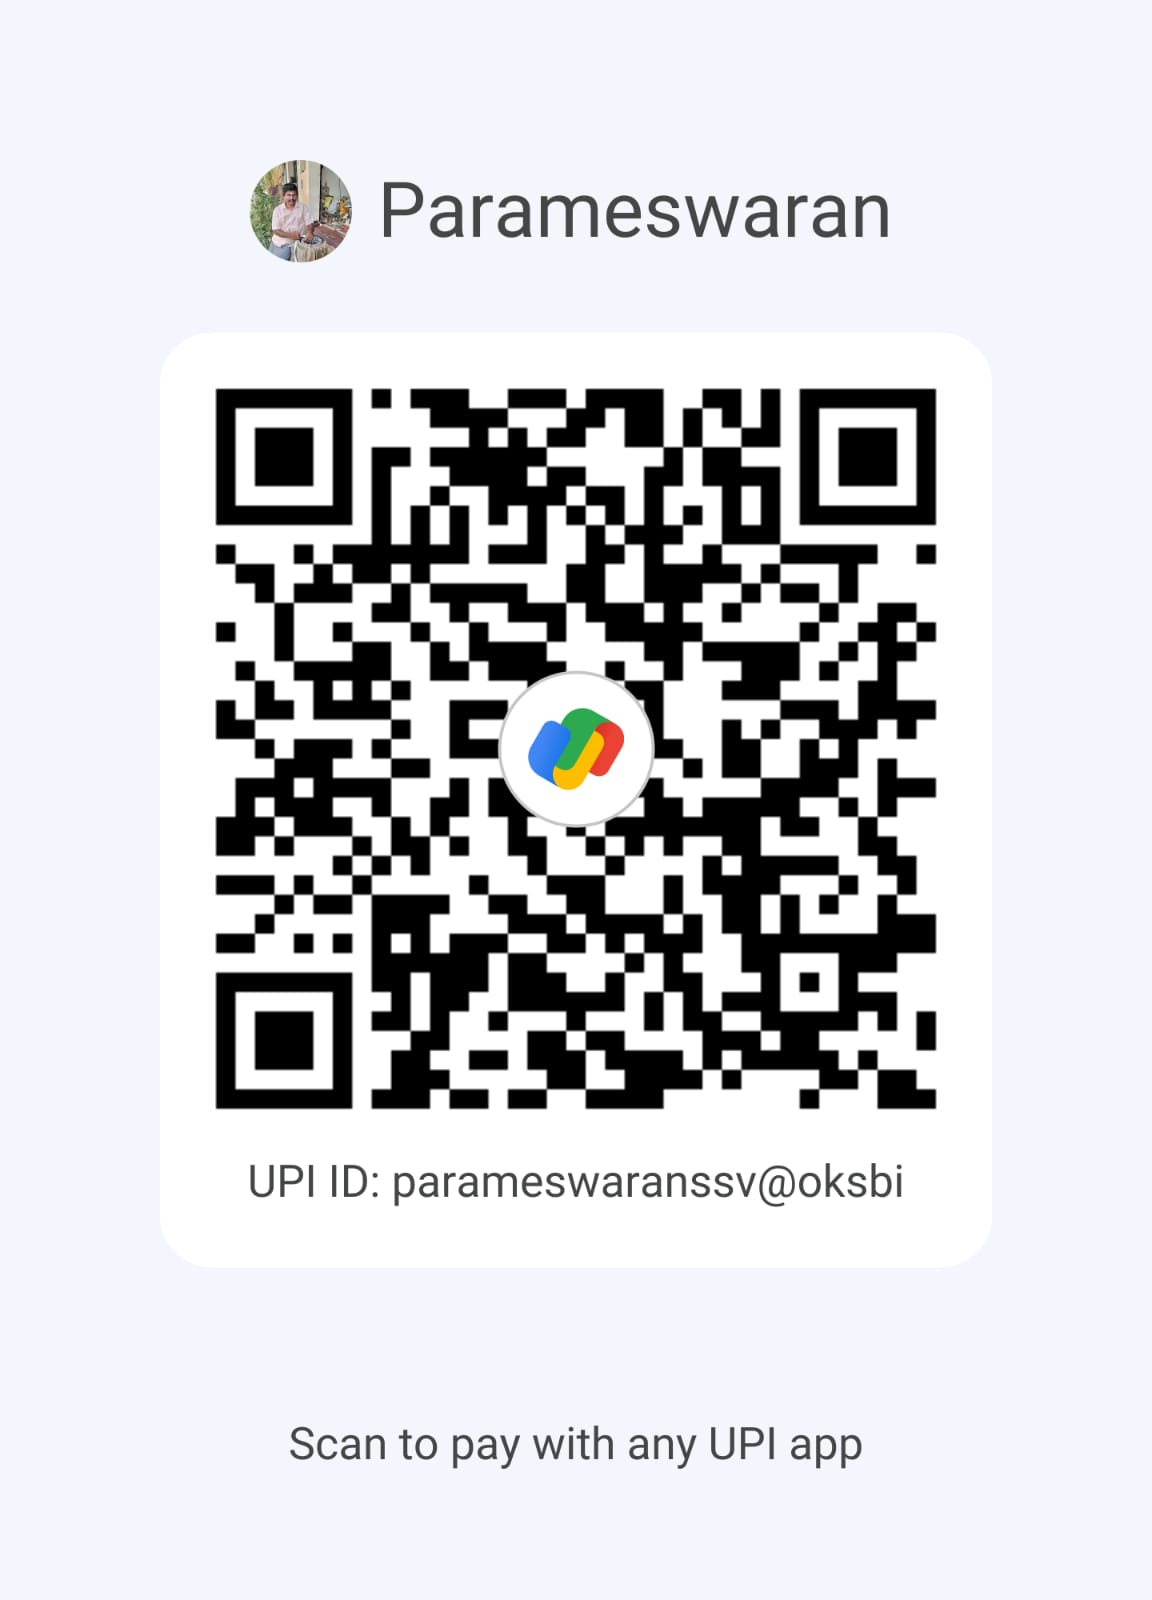
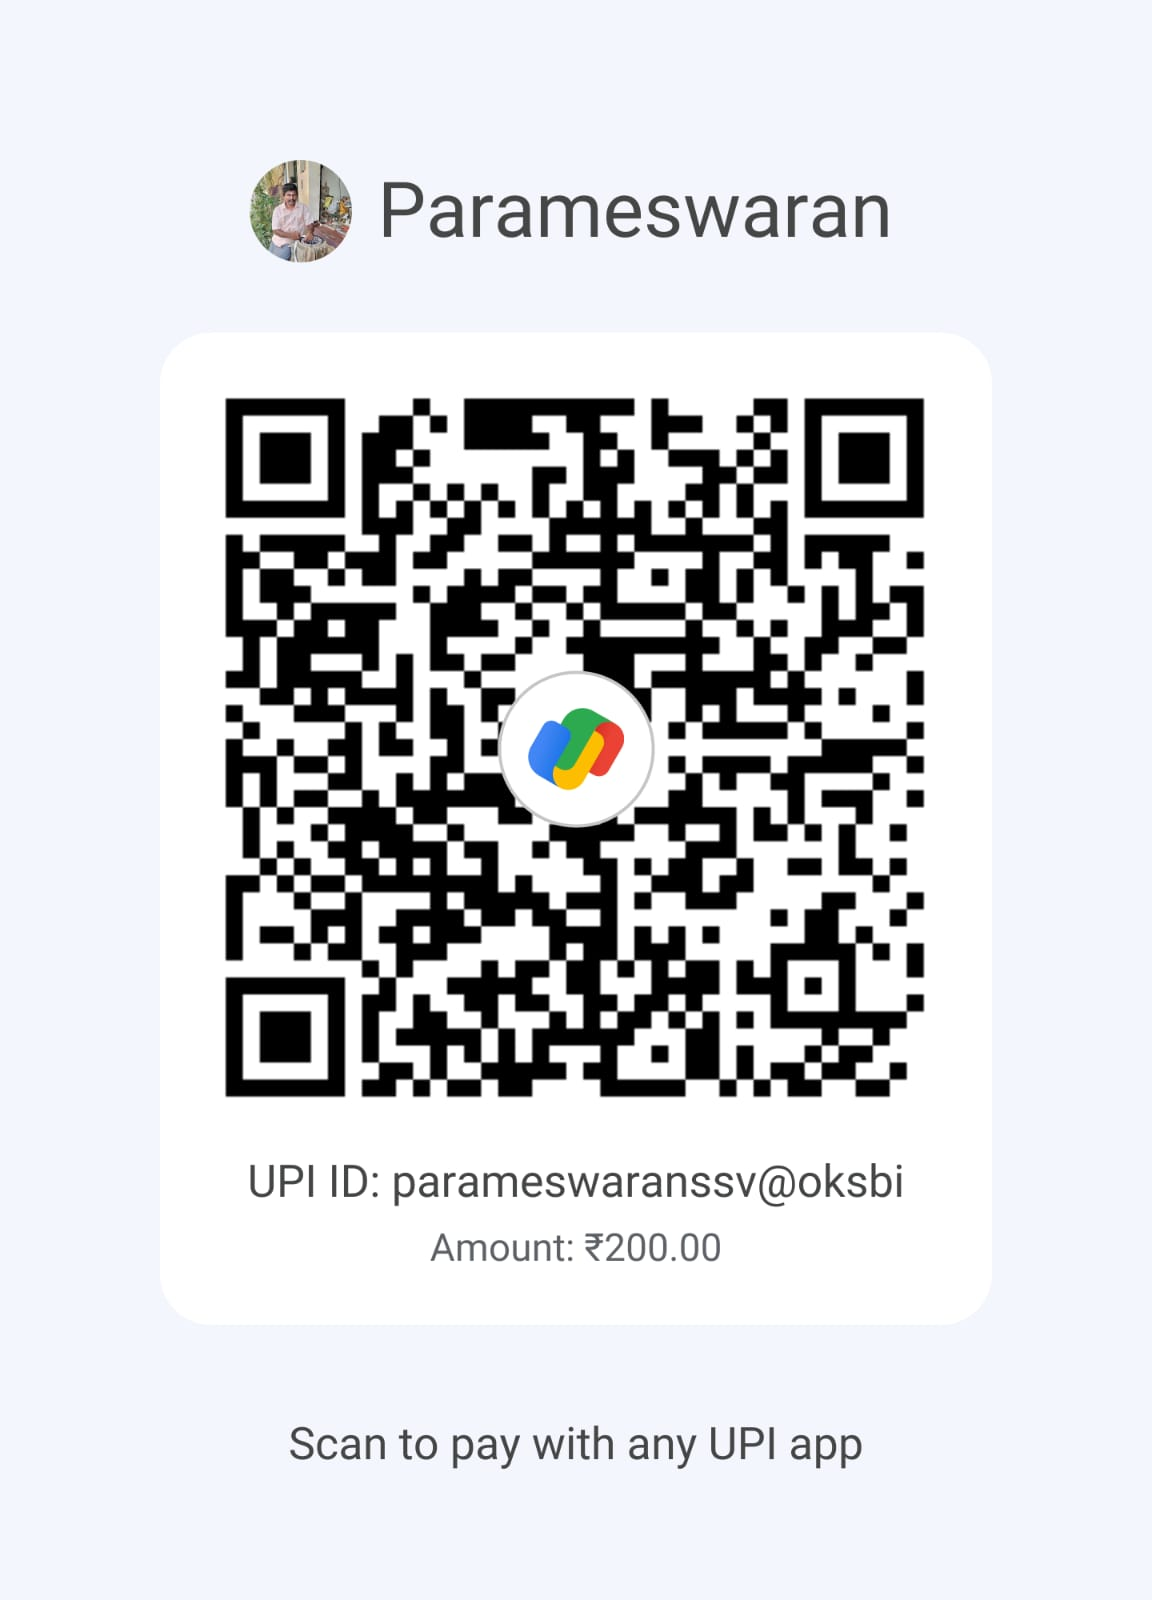
vertical align removed contacts added

Changed region(s): [[0.1875, 0.2188, 0.8125, 0.7188], [0.4688, 0.75, 0.625, 0.8125], [0.375, 0.75, 0.4688, 0.8125]]

diff --git a/nms-marathon-app/src/container/player-dashboard/playerDashboard.scss b/nms-marathon-app/src/container/player-dashboard/playerDashboard.scss
@@ -1,6 +1,13 @@
 // Modern Dashboard Styles
 
 .dashboard-container {
+  .payment-dashboard-info{
+    p {
+    margin-top: 0;
+    margin-bottom: 0;
+  }
+
+  }
   padding: 20px;
   max-width: 900px;
   margin: 0 auto;
@@ -134,61 +141,61 @@
 }
 
 // Mobile responsive - card view
-@media (max-width: 600px) {
-  .dashboard-container {
-    padding: 15px;
+// @media (max-width: 600px) {
+//   .dashboard-container {
+//     padding: 15px;
 
-    .table-container {
-      background: transparent;
-      box-shadow: none;
-      border: none;
-    }
+//     .table-container {
+//       background: transparent;
+//       box-shadow: none;
+//       border: none;
+//     }
 
-    // Hide table header on mobile
-    .table thead {
-      display: none;
-    }
+//     // Hide table header on mobile
+//     .table thead {
+//       display: none;
+//     }
 
-    .table tbody {
-      display: flex;
-      flex-direction: column;
-      gap: 15px;
+//     .table tbody {
+//       display: flex;
+//       flex-direction: column;
+//       gap: 15px;
 
-      tr {
-        display: flex;
-        flex-direction: column;
-        background: linear-gradient(135deg, rgb(255 255 255 / 15%) 0%, rgb(254 255 250 / 95%) 100%);
-        backdrop-filter: blur(20px);
-        border: 1px solid rgba(0, 0, 0, 0.1);
-        border-radius: 0;
-        box-shadow: 0 4px 15px rgba(0, 0, 0, 0.1);
-        padding: 0;
-        overflow: hidden;
-      }
+//       tr {
+//         display: flex;
+//         flex-direction: column;
+//         background: linear-gradient(135deg, rgb(255 255 255 / 15%) 0%, rgb(254 255 250 / 95%) 100%);
+//         backdrop-filter: blur(20px);
+//         border: 1px solid rgba(0, 0, 0, 0.1);
+//         border-radius: 0;
+//         box-shadow: 0 4px 15px rgba(0, 0, 0, 0.1);
+//         padding: 0;
+//         overflow: hidden;
+//       }
 
-      td {
-        display: flex;
-        justify-content: space-between;
-        padding: 12px 16px;
-        border-bottom: 1px solid rgba(0, 0, 0, 0.05);
+//       td {
+//         display: flex;
+//         justify-content: space-between;
+//         padding: 12px 16px;
+//         border-bottom: 1px solid rgba(0, 0, 0, 0.05);
 
-        &:before {
-          content: attr(data-label);
-          font-weight: 600;
-          color: #1abc9c;
-          text-transform: uppercase;
-          font-size: 0.8rem;
-        }
+//         &:before {
+//           content: attr(data-label);
+//           font-weight: 600;
+//           color: #1abc9c;
+//           text-transform: uppercase;
+//           font-size: 0.8rem;
+//         }
 
-        &:last-child {
-          border-bottom: none;
-        }
-      }
-    }
+//         &:last-child {
+//           border-bottom: none;
+//         }
+//       }
+//     }
 
-    .btn-add-player {
-      width: 100%;
-      padding: 16px;
-    }
-  }
-}
+//     .btn-add-player {
+//       width: 100%;
+//       padding: 16px;
+//     }
+//   }
+// }

diff --git a/nms-marathon-app/src/container/player-dashboard/playerDashboard.js b/nms-marathon-app/src/container/player-dashboard/playerDashboard.js
@@ -7,6 +7,7 @@ import Button from 'react-bootstrap/Button';
 import { PopupContext } from '../../config/context';
 import Alert from 'react-bootstrap/Alert';
 import './playerDashboard.scss';
+import qrImage from '../../assets/paraman.jpeg';
 
 const PlayerDashboard = () => {
   const playersState = useSelector((state) => state.players);
@@ -41,6 +42,21 @@ const PlayerDashboard = () => {
 
   return (
     <div className="dashboard-container">
+      <div >
+        <Alert variant={'warning'} className="payment-dashboard-info">
+                  
+                  <div className="payment-amount">
+                    <span >Registration Fee: </span>
+                    <span className="currency">₹</span>
+                    <span className="price">200</span>
+                    <span className="per-player">per player</span>
+                  </div>
+                  <div className="qr-section">
+                    <p className="scan-text">Scan QR Code to Pay via UPI</p>
+                    <img src={qrImage} style={{ width: '200px' }} alt="Scan QR to pay ₹200" />
+                  </div>
+                </Alert>
+      </div>
       <div className="table-container">
         <Table responsive="sm">
           <thead>
@@ -93,7 +109,7 @@ const PlayerDashboard = () => {
       </div>
       <div>
         <Alert variant={'warning'}>
-          <div>Payment Status will Update within 3 Days</div>
+          <div>Contact : Arivu : 9994374553/ Kalimuthu: 9944419808/ Kaleeswaran : 8682890117</div>
         </Alert>
       </div>
     </div>
